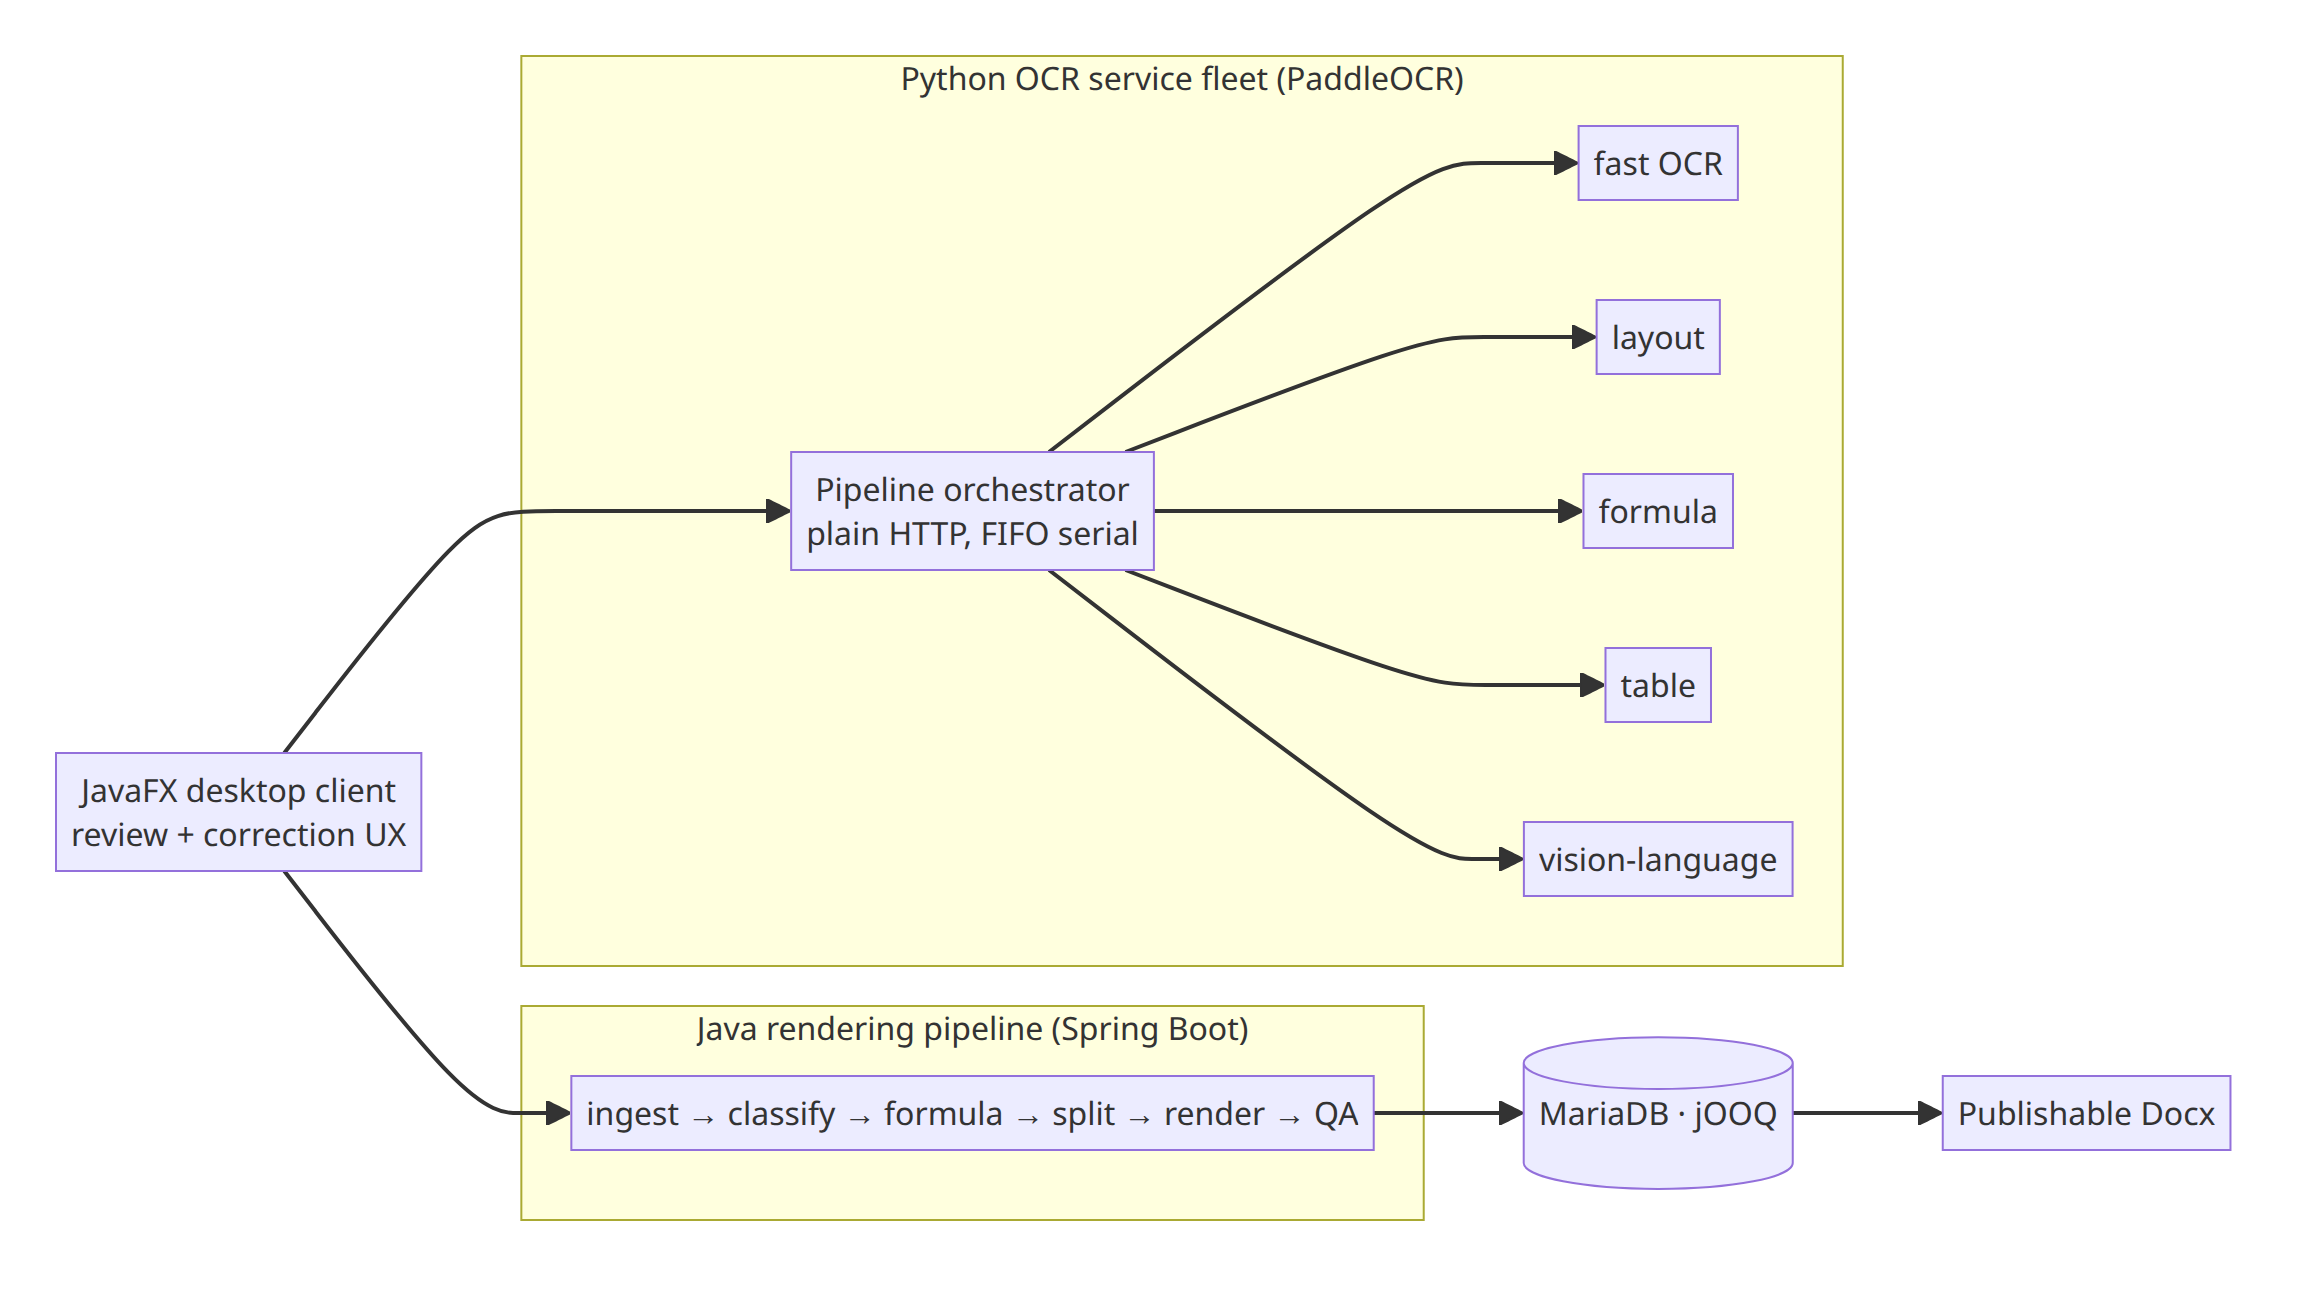
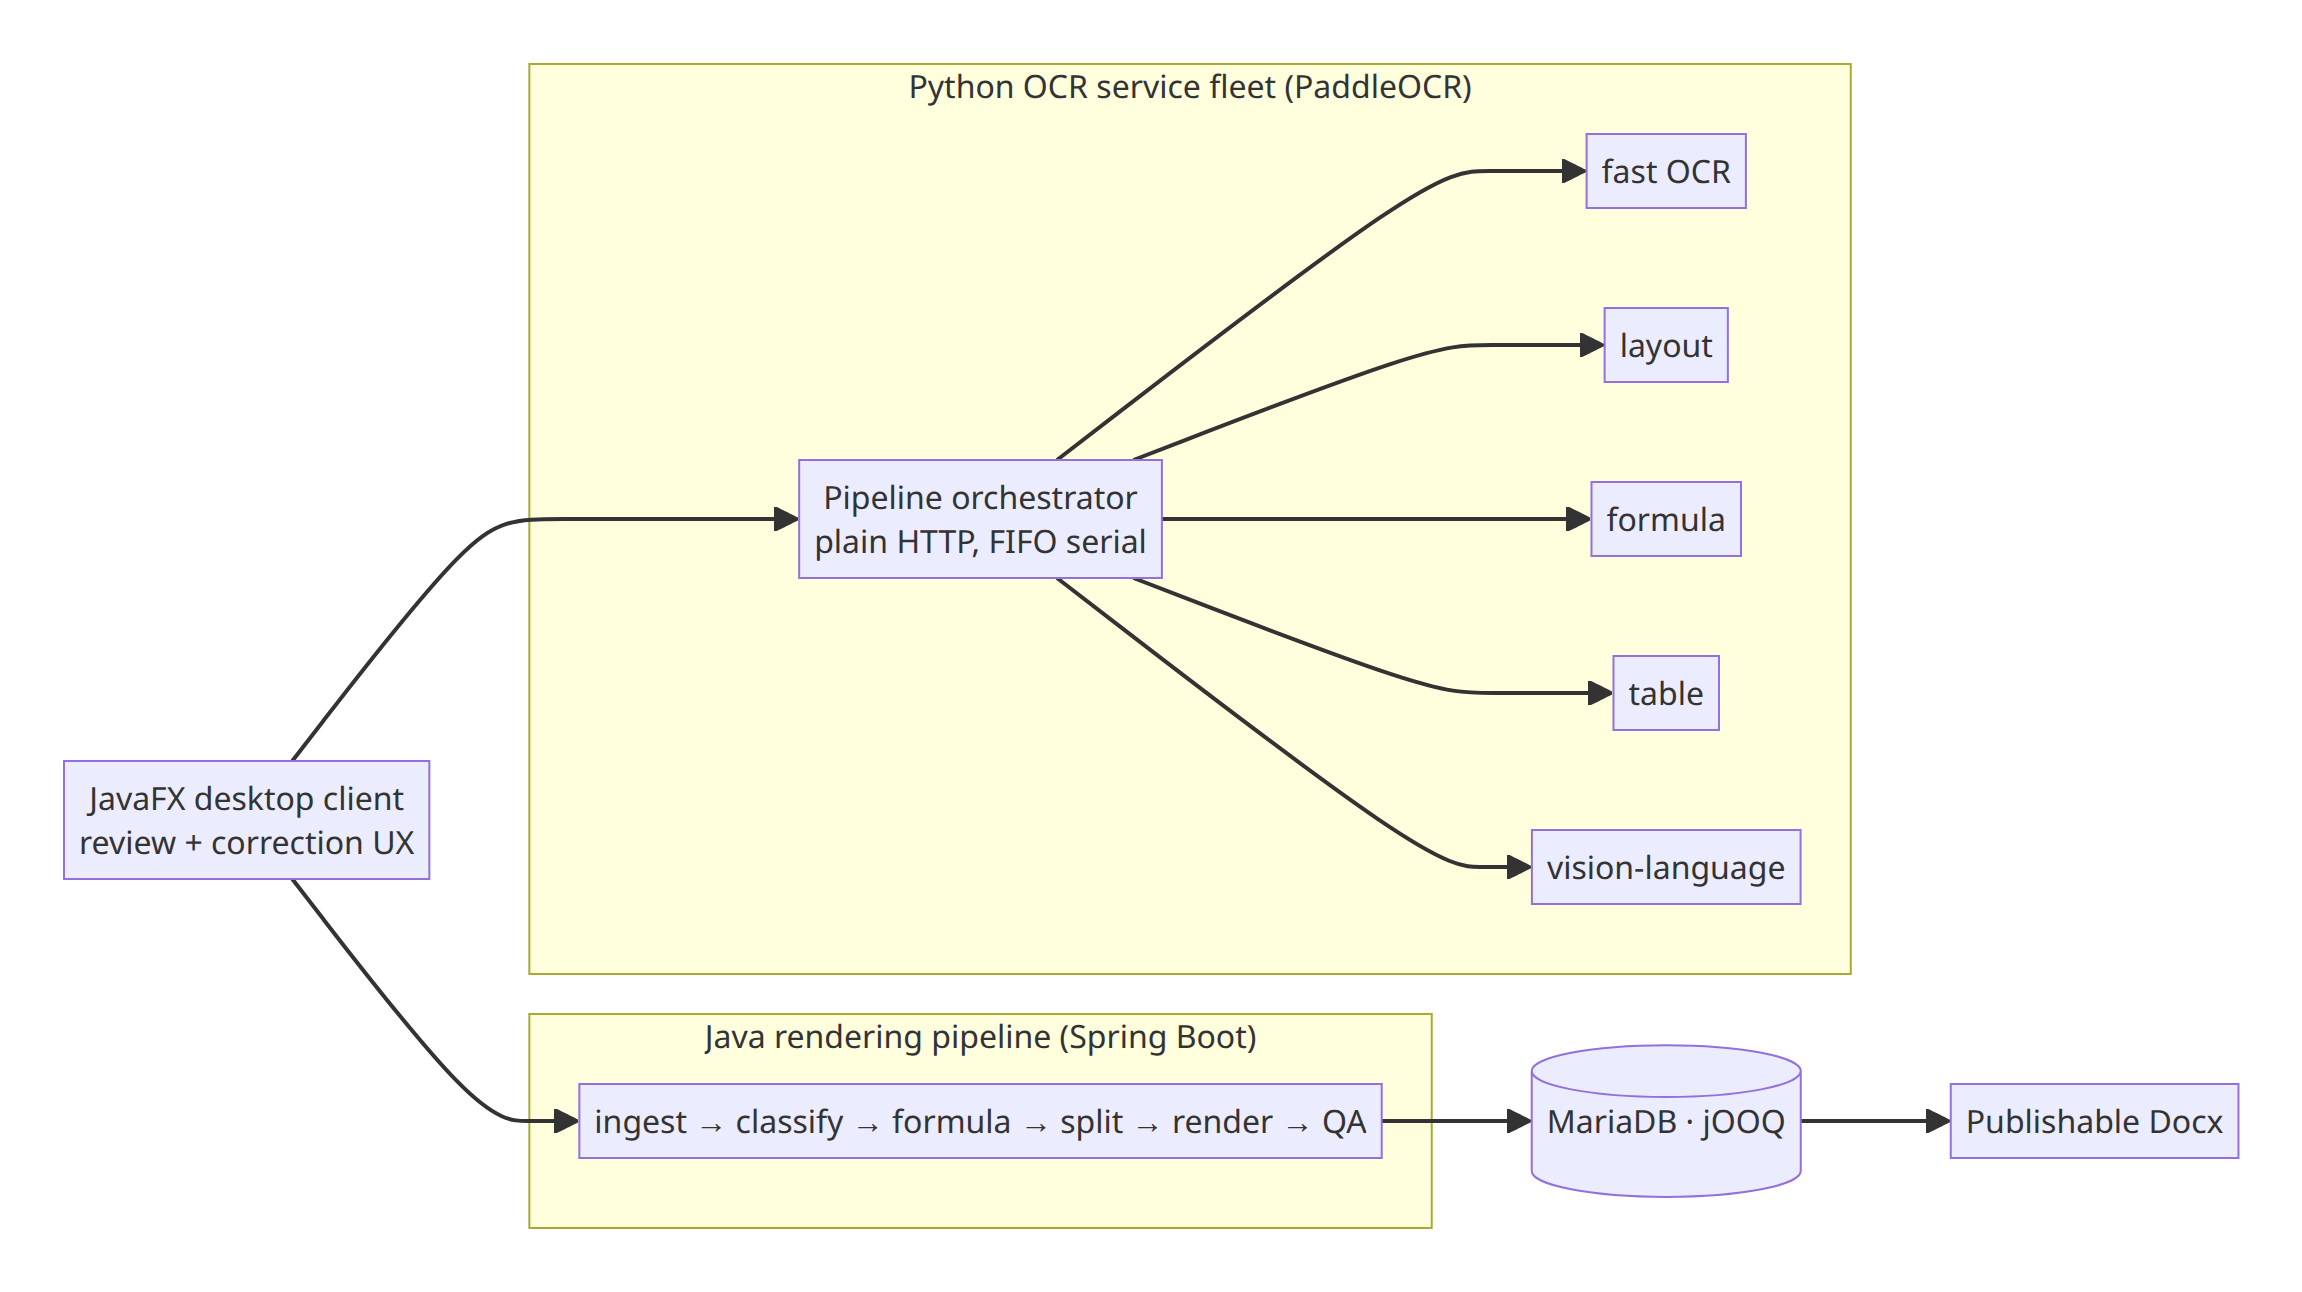
Add English UI screenshots for showcase; convert mermaid to PNG + details fold; ledger entry

diff --git a/logistics/README.md b/logistics/README.md
@@ -8,6 +8,11 @@
 
 ## 1. System Context
 
+![System context — 15-module monolith with shared PostgreSQL](assets/system-context.png)
+
+<details>
+<summary>view mermaid source</summary>
+
 ```mermaid
 flowchart LR
     subgraph Clients
@@ -39,7 +44,7 @@ flowchart LR
     IN --> FX
 ```
 
-> Rendered fallback: [assets/system-context.png](assets/system-context.png)
+</details>
 
 **Why a modular monolith, not microservices**: a freight-forwarding chain is a strongly-coupled transactional flow (quote → booking → SI → charges → invoice); splitting it would trade local simplicity for distributed-transaction complexity no single-tenant-scale load justifies. Module boundaries are enforced by a dedicated **archtest module (ArchUnit)** so the monolith cannot silently rot into a big ball of mud — boundary violations fail the build.
 
@@ -67,6 +72,11 @@ flowchart LR
 
 ## 3. Quality Engineering (the core of this case)
 
+![Three-tier test system with dual-green acceptance gate](assets/test-pyramid.png)
+
+<details>
+<summary>view mermaid source</summary>
+
 ```mermaid
 flowchart TD
     U["Unit — 293 test files, JUnit5<br/>H2 in-memory, per-test UUID database<br/>mocks only at architectural boundaries"] --> I
@@ -76,7 +86,7 @@ flowchart TD
     G --> D["Dual-green discipline<br/>two consecutive SUCCESS runs required"]
 ```
 
-> Rendered fallback: [assets/test-pyramid.png](assets/test-pyramid.png)
+</details>
 
 - **Unit**: 293 test files; H2 in PostgreSQL mode with a unique database per test — tests cannot pollute each other even if they leak state. Concurrency tests use latches and (where timing windows exist) Awaitility; a global `forkedProcessTimeoutInSeconds` kills hung forks instead of hanging CI.
 - **Integration**: a `*IT` layer against real PostgreSQL — one database per test class, rebuilt by Flyway, seeded from the same SQL the acceptance gate uses. Catches what H2 cannot: real dialect behavior, real constraints, migration integrity. (A real lesson: three genuine defects — a dead boot-integration test, an authorization-gated E2E scenario, stale-frontend packaging — were all caught by this layer, not by unit tests.)
@@ -86,15 +96,17 @@ flowchart TD
 
 ## 4. Verification Evidence
 
-### Product walkthrough (fictional demo data)
+### Product walkthrough (English UI, fictional demo data)
 
-| Executive dashboard (zh) | Same UI in English |
+| Executive dashboard | CRM customer list |
 |---|---|
-| ![dashboard](assets/ui-dashboard.png) | ![english](assets/ui-locale-en.png) |
+| ![dashboard](assets/ui-dashboard-en.png) | ![crm](assets/ui-crm-en.png) |
 
 | Tracking swim-lane board | RBAC guard: viewer role denied, required code shown |
 |---|---|
-| ![board](assets/ui-tracking-board.png) | ![guard](assets/ui-rbac-guarded.png) |
+| ![board](assets/ui-tracking-board-en.png) | ![guard](assets/ui-rbac-guard-en.png) |
+
+The UI framework is fully bilingual (zh/en, one-click switch); business rows keep Chinese seed names — data locale is independent of UI locale, exactly as a real cross-border freight operation would look.
 
 The guard screen above shows the tenancy/authorization seam end-to-end: a viewer-role session hitting an admin page gets a denial page that names the exact missing permission code (`admin.users:READ`) — no silent blanks, no stack traces.
 

diff --git a/multi-agent-web/README.md b/multi-agent-web/README.md
@@ -8,6 +8,11 @@
 
 ## 1. System Context
 
+![Filesystem-backed multi-agent orchestration](assets/architecture.png)
+
+<details>
+<summary>view mermaid source</summary>
+
 ```mermaid
 flowchart LR
     UI["Single-page console<br/>(zero-framework JS, WebSocket)"]
@@ -30,7 +35,7 @@ flowchart LR
     FS --> Q
 ```
 
-> Rendered fallback: [assets/architecture.png](assets/architecture.png)
+</details>
 
 **Why a filesystem as the persistence layer** (no Redis, no DB): jobs are files; state transitions are directory moves (six-state queue); artifacts are files on disk. For a single-node personal/team tool this means zero infrastructure, human-readable state at any moment, and crash recovery that is just *reading the directory*. The trade-off — no multi-node coordination — is out of scope by design and stated openly.
 

diff --git a/exam-parser/README.md b/exam-parser/README.md
@@ -8,6 +8,11 @@
 
 ## 1. System Context
 
+![Three-tier parsing topology — OCR fleet, Java pipeline, MariaDB](assets/pipeline.png)
+
+<details>
+<summary>view mermaid source</summary>
+
 ```mermaid
 flowchart LR
     UI["JavaFX desktop client<br/>review + correction UX"]
@@ -31,7 +36,7 @@ flowchart LR
     P --> DB --> OUT
 ```
 
-> Rendered fallback: [assets/pipeline.png](assets/pipeline.png)
+</details>
 
 **Why this topology**: OCR model inference (GPU, Python ecosystem) and deterministic document rendering (POI/PDFBox, strict Docx fidelity) have opposite runtime profiles. Separate fleets keep GPU-heavy OCR horizontally swappable while the Java pipeline owns the correctness-critical transformation — and each side is tested with the tools that fit it.
 
